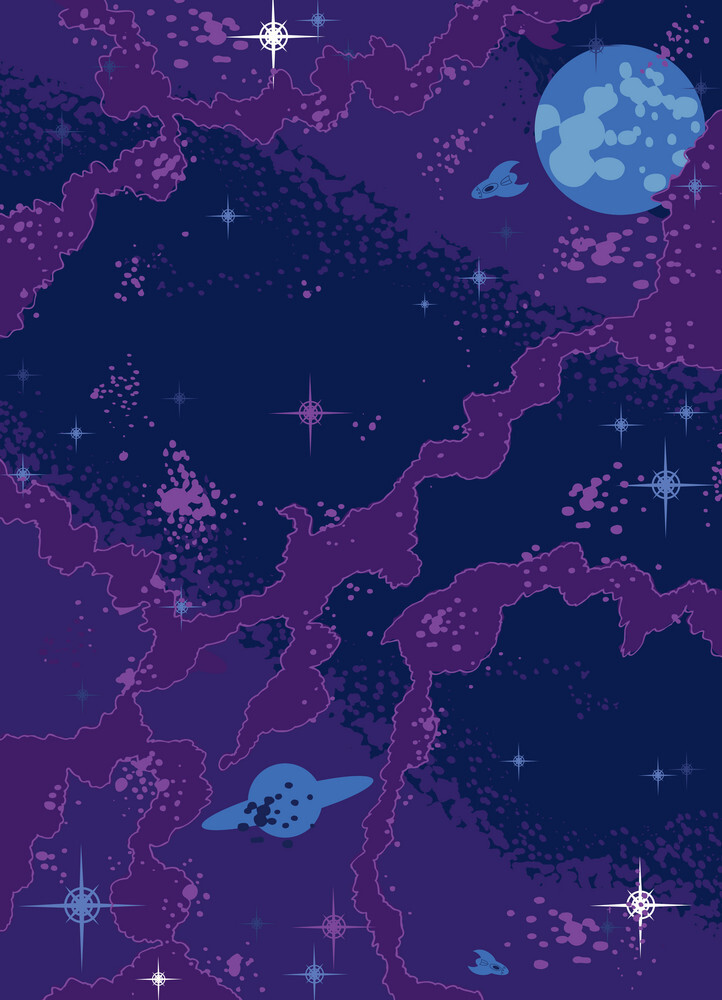
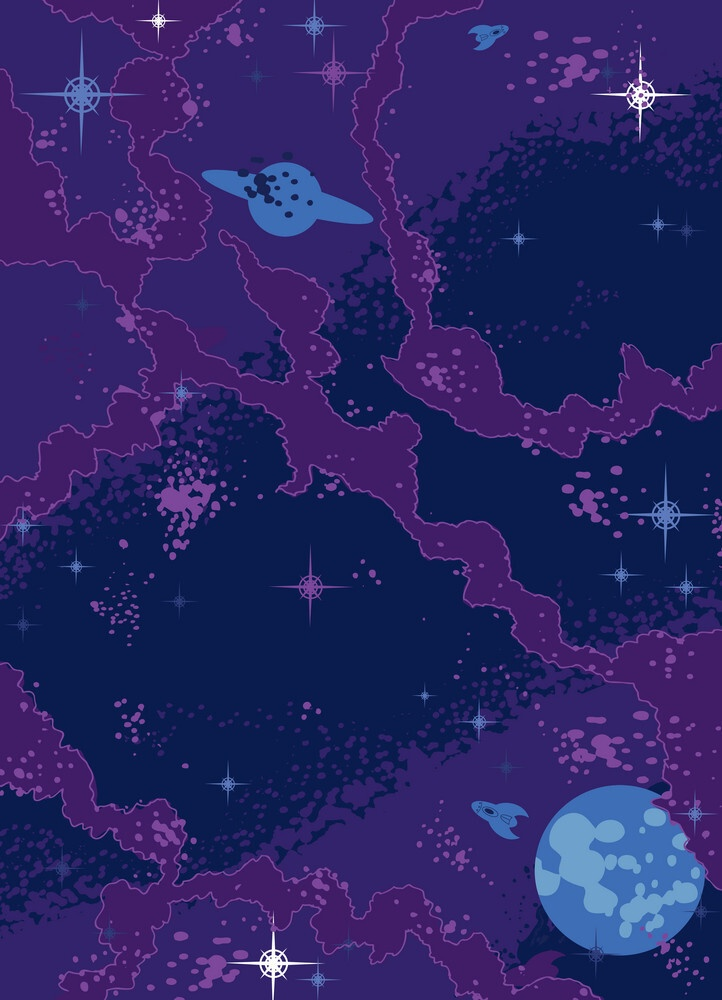
moving background 1up on frame id

diff --git a/js/index.js b/js/index.js
@@ -43,6 +43,14 @@ let asteroid2X = 400;
 let asteroid2Y = -50;
 let asteroid2Speed = 3
 
+// 1up variables
+let oneUpWidth = 50
+let oneUpHeight = 80
+let oneUpX = randomNumberInRange()
+let oneUpY = -20
+let oneUpSpeed = 4
+let oneUp = false
+
 // Laser variables 
 let laserX = supermanX + 10
 let laserY = supermanY - 40
@@ -57,6 +65,8 @@ let bsX
 // Images
 const superManImg = new Image()
 superManImg.src = "./images/supermanImg.png"
+const backgroundImg2 = new Image()
+backgroundImg2.src = "images/space_background2_flipped.jpg"
 const backgroundImg = new Image()
 backgroundImg.src = "images/space_background2_mod.jpg"
 const asteroid1Img = new Image()
@@ -65,9 +75,11 @@ const asteroid2Img = new Image()
 asteroid2Img.src = "images/asteroid2img.png"
 const heartImg = new Image()
 heartImg.src = "images/heartImg-cutout.png"
+const oneUpImg = new Image()
+oneUpImg.src = "images/1upElement.png"
 
 // Animation frame Id
-let animationFrameId
+let animationFrameId = 1
 
 // Window load
 window.onload = () => {
@@ -79,7 +91,10 @@ window.onload = () => {
 
     // Press button start screen
     document.querySelector("#start-button").onclick  = () => {
+        
         gameOver = false
+        backgroundImgY = 0
+        backgroundImg2Y = -canvas.height
         superManImg.src = "./images/supermanImg.png"
         healthPoints = 3
         currentScore = 0
@@ -116,8 +131,6 @@ window.onload = () => {
             if(currentScore > bestScore){
                 bestScore = currentScore
             }
-            console.log(currentScore)
-            console.log(bestScore)
             shooting = false
             laserY = supermanY - 40
             asteroid1Y = -20
@@ -134,8 +147,6 @@ window.onload = () => {
             if(currentScore > bestScore){
                 bestScore = currentScore
             }
-            console.log(currentScore)
-            console.log(bestScore)
             shooting = false
             laserY = supermanY - 40
             asteroid2Y = -20
@@ -202,6 +213,38 @@ window.onload = () => {
         }
     }
 
+    // Draw 1up
+    function draw1Up() {
+        if (animationFrameId % 1200 === 0 && animationFrameId !== 0) {
+            console.log(animationFrameId)
+            oneUpY = -30
+            oneUp = true
+        }
+    }
+
+    // 1up movment & collision
+    function moveOneUp(){
+        if (oneUp === true) {
+            ctx.drawImage (oneUpImg, oneUpX, oneUpY, oneUpWidth, oneUpHeight )
+            oneUpY += oneUpSpeed
+        }   
+        if (oneUpY === canvas.height){
+            oneUp = false
+        }  
+        if (
+            oneUpX < supermanX + supermanWidth &&
+            oneUpX + oneUpWidth > supermanX &&
+            oneUpY < supermanY + supermanHeight &&
+            oneUpHeight + oneUpY > supermanY
+            ){
+            if (healthPoints < 3) {
+                healthPoints += 1
+                oneUpY = -30
+                oneUp = false
+            }
+        }
+    }
+        
     // Print score & best score
     function drawScore() {
         ctx.beginPath();
@@ -234,7 +277,18 @@ window.onload = () => {
     function isGameOver () {
         if (healthPoints < 1) {
             ctx.clearRect(0, 0, canvas.width, canvas.height)
-            ctx.drawImage(backgroundImg, 0, 0, canvas.width, canvas.height)
+
+            // Background imgs (moving)
+            ctx.drawImage(backgroundImg, 0, backgroundImgY, canvas.width, canvas.height+2)
+            ctx.drawImage(backgroundImg2, 0, backgroundImg2Y, canvas.width, canvas.height+2)
+            if (backgroundImgY === canvas.height){
+                backgroundImgY = -canvas.height
+            }
+            if (backgroundImg2Y === canvas.height){
+                backgroundImg2Y = -canvas.height
+            }
+
+            //Draw elements (during gameover)
             superManImg.src = "images/supermanImgGrey.png"
             ctx.drawImage(superManImg, supermanX, supermanY, supermanWidth, supermanHeight)
             ctx.beginPath();
@@ -252,13 +306,32 @@ window.onload = () => {
         }
     }
 
-    // Main game function
+    //Background imgs Y position
+    let backgroundImgY = 0
+    let backgroundImg2Y = -backgroundImgY
+    
+
+    // MAIN GAME FUNCTION
     function startGame() {
         ctx.clearRect(0, 0, canvas.width, canvas.height)
         canvas.style.display = "block"
         gameSpace.style.display = "block"
         startScreen.style.display = "none"
-        ctx.drawImage(backgroundImg, 0, 0, canvas.width, canvas.height)
+
+        // Background Imgs (moving)
+        ctx.drawImage(backgroundImg, 0, backgroundImgY, canvas.width, canvas.height+2)
+        ctx.drawImage(backgroundImg2, 0, backgroundImg2Y, canvas.width, canvas.height+2)
+        
+        backgroundImgY += 1
+        backgroundImg2Y += 1
+        if(backgroundImgY > canvas.height){
+            backgroundImgY = -canvas.height
+        }
+        if(backgroundImg2Y > canvas.height){
+            backgroundImg2Y = -canvas.height
+        }
+
+        // Draw elements
         ctx.drawImage(superManImg, supermanX, supermanY, supermanWidth, supermanHeight)
         ctx.drawImage(asteroid1Img, asteroid1X, asteroid1Y, asteroid1Width, asteroid1Height)
         ctx.drawImage(asteroid2Img, asteroid2X, asteroid2Y, asteroid2Width, asteroid2Height)
@@ -267,6 +340,8 @@ window.onload = () => {
         supermanMove()
         moveAsteroid1()
         moveAsteroid2()
+        draw1Up()
+        moveOneUp()
         
         // Print HP
         if(healthPoints === 3) {
@@ -324,11 +399,14 @@ window.onload = () => {
 
         // Game restart after game over
         document.querySelector("#replay-button").onclick  = () => {
-            
-            canvas.style.display = "none"
-            gameSpace.style.display = "none"
-            startScreen.style.display = "block"
-            gameOverScreen.style.display = "none"
+            window.location.reload()
+            //canvas.style.display = "none"
+            //gameSpace.style.display = "none"
+            //startScreen.style.display = "block"
+            //gameOverScreen.style.display = "none"
+
+            // RESET ANIMATION FRAME??
+            // animationFrameId = 0
         }
 
     }
